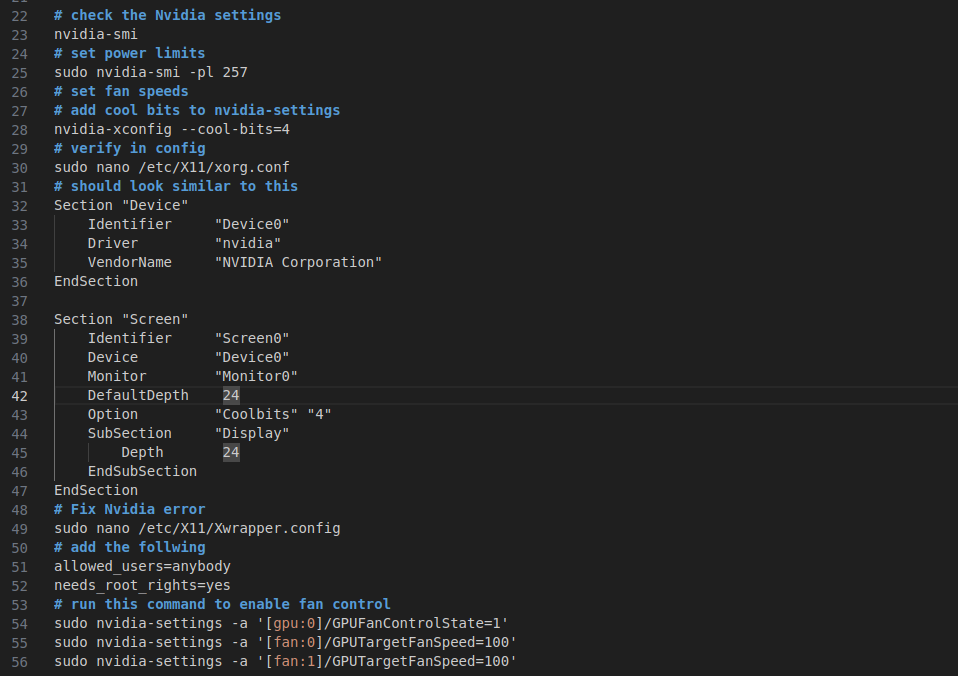
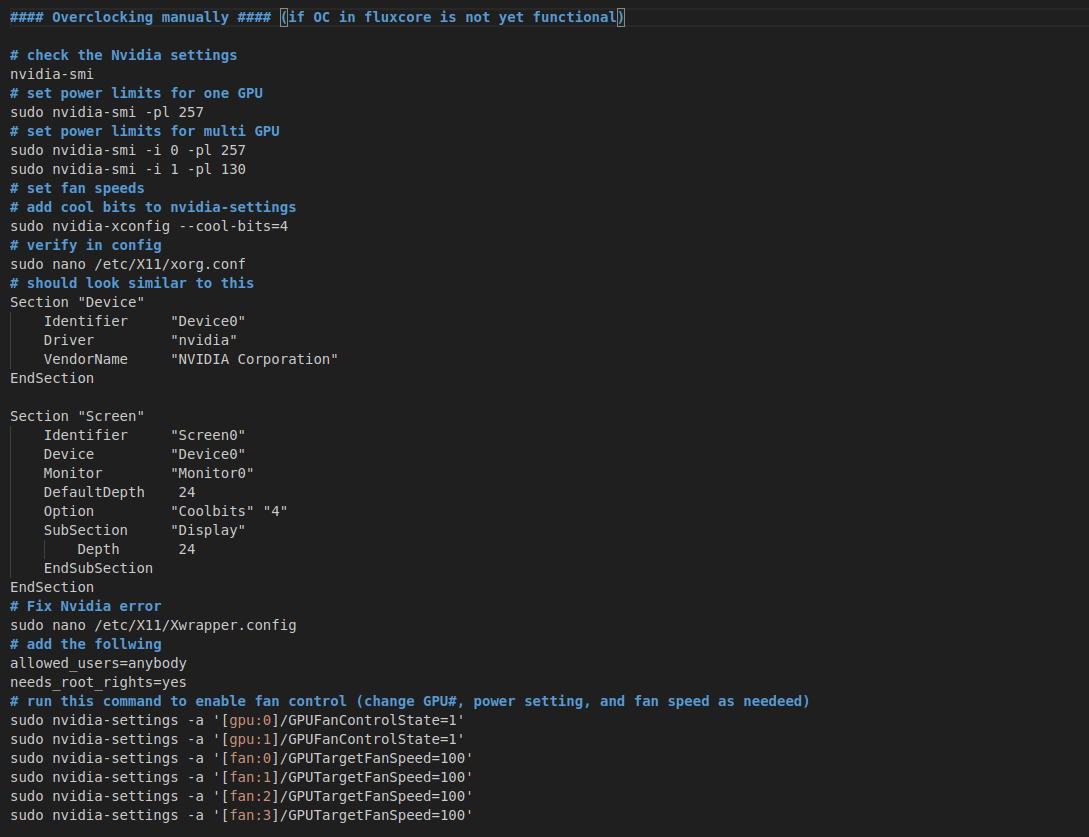
added ubuntu server OC instructions

Changed region(s): [[0.0, 0.0, 0.5752, 0.9941], [0.4541, 0.8077, 0.7265, 0.8698]]

diff --git a/fluxcore.html b/fluxcore.html
@@ -102,8 +102,7 @@
 		<h1>Welcome to Fluxcore and PoUW:</h1>
 		<p>This guide will assist you in your installation and configuration of Fluxcore!</p>
 		<H3>Notes before you start:</H3>
-		<p>We are currently unable to enable GPU fan control in Ubuntu server. You might want
-			to use Ubuntu desktop till a work around is created (for remotely controlled servers). A static IP is not 
+		<p>A static IP is not 
 			required. You can put as many servers on the same public IP as you want. Remote servers should be on the
 			same subnet as the workstation with the webserver in order to control them remotely
 		</p>
@@ -116,18 +115,19 @@
 			Fluxcore is capable of managing all of your systems from a GUI similar to the way Hive works (assuming you
 			have used Hive OS). One key difference is how you access the GUI. In Fluxcore, you first install fluxcore on
 			your workstation, and host your own private webserver page for the GUI. If you only have a single system, and
-			it will only be used for mining when you are not using it otherwise, this is all you need to do. However if
-			you have purpose built servers, you will want to install Fluxcore on your work station for the GUI, then add
-			the remote servers in the GUI as additional machines and control them remotely, after installing Fluxcore on
-			them as well</p>
-		<h3>Configuring initial system with webserver GUI as a standalone or central control for other servers</h3>
+			you will only be mining when you ar enot using it, this is all you need to do. However, if you have purpose
+			built servers, you will want to install Fluxcore on your work station for the GUI, then add/link the remote
+			servers in the GUI as additional machines. You can then install Fluxcore on the servers, and control them
+			remotely from the GUI on your work station.</p>
+		<h3>Configuring an initial system with webserver GUI as a standalone or central control for other servers</h3>
 
 		<p><span class="highlight">Step 1: </span>Configure system with Ubuntu 22.04 Desktop and Nvidia 535 driver. Ubuntu
-			will attempt to install the latest Nvidia driver (currently 545). Additionally 545 has a bug that causes the
-			package to break and often has to be manually removed before you can install 535. Ubuntu will continue to
+			will attempt to install the latest Nvidia driver (currently 545). Additionally 545 has a bug that can cause the
+			package to break and have to be manually removed before you can install 535. Ubuntu will continue to
 			attempt to upgrade to the latest driver unless you lock it to the 535 version needed for Fluxcore. Use the 
 			below commands to remove 545 and install 535. </p>
 			<p>sudo apt-get purge nvidia-*</p>
+			<p>reboot the system</p>
 			<p>sudo apt-get update</p>
 			<p>sudo apt-get install nvidia-driver-535</p>
 			<p>sudo apt-mark hold nvidia-driver-535</p>
@@ -140,27 +140,38 @@
 		<img src="assets/fluxcore001.png" alt="fluxcore001" class="fluxcore-photo">
 		<p><span class="highlight">Step 3: </span>Install the prerequisites by entering "p" and pressing "Enter"</p>
 		<img src="assets/fluxcore002.png" alt="fluxcore002" class="fluxcore-photo">
-		<p><span class="highlight">Step 4: </span>Run the bash script again and this time enter "m" and press "Enter"
-			it will prompt you for an IP to bind the webserver to. Accept the default, or use the system IP, and it will
-			automatically open in your web browser to the IP/port of the web server and allow you GUI control over FLuxcore</p>
+		<p><span class="highlight">Step 4: </span>At this point you have 2 options. You can run run the bash script again
+			and this time enter "m" and press "Enter" This will install an instance that has to be manually started and
+			stopped. The second option os to enter "d" and it will always run fluxcore in the background. (mining and PoUW
+			can still be manually started and stopped at any time). Once you make your choice, it will install, and when
+			it finishes it will prompt you for an IP to bind the webserver to. Accept the default if you dont want to be
+			able to access the webserver to remotely start and stop mining/PoUW on this system, or use the system IP if
+			you would like the option of remote control. If you chose the D option, you will have to manually start an
+			instance of Fluxcore in a terminal window with the following command. 
+			<p>./fluxcore-linux-amd64</p>
+			After this process completes (be patient) FLuxcore will automatically open in your web browser to the IP/port
+			of the web server and allow you GUI control over FLuxcore. (if you chose Daemon install you will open your
+			own browser window using the link it provides)</p>
 		<p><span class="highlight">Step 5: </span>The system will do some initial checks, and will offer you the machine
 			hash ID and the machine password. Save these values as you may need them later. Each install will have its own
-			unique machine hash and passwrod values. You will be prompted to register an account. For right now, only the
-			google log in works, but the Dev team is working hard to get the other options working as well. You will also
-			be pompted to set up Two Factor Authentication. Any of the common 2FA applications should work for this. If
-			2FA applications are new to you, hop onto youtube and watch a quick video on how to set up Authy (or similar).
-			Once you get logged in, you should now see the following screen. Go ahead and personalize the application,
-			configure your public wallet address, and install the mining module.</p>
+			unique machine hash and passwrod values. You will be prompted to register an account. At the time of writing
+			this, only the google log in works, but the Dev team is working hard to get the other options working as well.
+			You will also be pompted to set up Two Factor Authentication. Any of the common 2FA applications should work
+			for this. If 2FA applications are new to you, hop onto youtube and watch a quick video on how to set up Authy
+			(or similar). Once you get logged in, you should now see the following screen. Go ahead and personalize the
+			application, configure your public wallet address, and install the mining module.</p>
 		<img src="assets/fluxcore003.png" alt="fluxcore003" class="fluxcore-photo">
 		<p>(fluxcore will continue to run in your terminal window. Don't close it!)</p>
 		<p><span class="highlight">Step 6: </span>Set up proper "overclocks" for the GPU's before configuring fluxcore to
 			mine or running any benchmarks. While OC settings are of great debate, what is most important is limiting power,
 			and managing fan speeds so that the GPU's don't overheat. Flux core has the ability to manage these settings
-			internally, however at the time of writing this, it was not yet working correctly, so I want to share how to 
+			internally, however at the time of writing this, it was not yet functional, so I want to share how to 
 			manually change these settings in Ubuntu, as well as the config settings that need to be modified.</p>
 		<p>Before you can power limit and set fan speeds, a couple of config files need to be edited so you do not receive
 			errors when changing the default settings. Once that is complete you can use Terminal to manually set power
-			limits and fan speeds, (you can also go into the Nvidia X-server desktop application to set fan speed)</p>
+			limits and fan speeds, (you can also go into the Nvidia X-server desktop application to set fan speed). Pay
+			attention to the commands below, as they change slightly depending on the number of GPU's you have, and the
+			percent fan speed you want to apply.</p>
 		<img src="assets/fluxcore004.png" alt="fluxcore004" class="fluxcore-photo">
 		<p>You can get to the Fluxcore OC settings by going to "Account" on the left side, then choosing "OC Profiles"</p>
 		<img src="assets/fluxcore005.png" alt="fluxcore005" class="fluxcore-photo">
@@ -170,36 +181,49 @@
 			what this wallet is for in the future) lastly select the GPU's to assign to this mining profile and save the
 			config. This is the screen where you configure a mining profile.</p>
 		<img src="assets/fluxcore006.png" alt="fluxcore006" class="fluxcore-photo">
-
+		<p>At this point you have successfully installed and configured your first system on fluxcore!</p>		
 
 		<p>&nbsp;</p> <!-- Empty Paragraph for space -->
 		<h3>Add additional servers to the GUI and control remotely</h3>
-		<p><span class="highlight">Step 1: </span>Configuring dedicated remote servers for control with your workstation. 
-			Typically you would install Ubuntu server and Nvidia driver 535 for your remote server but keep in mind we do
-			not currently have a work around to control GPU fan speeds on Ubuntu server. We are working on a work around,
-			but if you want to use it right away you might consider installing Ubuntu desktop. Next run the bash script
-			for the install</p>
+		<p><span class="highlight">Step 1: </span>Configuring dedicated remote servers for control with your workstation: 
+			We recommend installing Ubuntu server and Nvidia driver 535 for your remote server but other options may also
+			work. Once you have these installed, run the bash script for the Fluxcore install!</p>
 		<p>curl -o setup.sh https://download.fluxcore.ai/setup.sh ; bash setup.sh</p>
 		<img src="assets/fluxcore001.png" alt="fluxcore001" class="fluxcore-photo">
 		<p><span class="highlight">Step 2: </span>Install the prerequisites by entering "p" and pressing "Enter"</p>
 		<img src="assets/fluxcore002.png" alt="fluxcore002" class="fluxcore-photo">
 		<p><span class="highlight">Step 3: </span>Run the bash script again and this time enter "d" and press "Enter"
-			it will prompt you for an IP to bind the webserver to. You must use the server IP to be able to see it remotely.
-			You can now paste that IP/port for the server into your workstation browser, and be able to finish configuration.
-			The system will run a few checks and will provide you machine hash and machine password. It is very important 
-			to write these down as you will need them in the next step and the machine password cannot be retrieved after
-			the fact.</p>
-		<p><span class="highlight">Step 4: </span>On your workstation you need to make a few changes before you can add the
-			server to the GUI in your workstation as a second "machine". Use the follwing command to add the system to the 
-			hosts file</p>
-			<p>sudo apt-get purge nvidia-*</p>
-			<p>Next add the server IP as machine 1, with the next one you add as machine 2, etc.</p>
+			it will prompt you for an IP to bind the webserver to. You must use the server IP to be able to see it remotely,
+			and control it from another system via the GUI. You can now paste that IP/port for the server into your
+			workstation browser, and be able to finish the configuration. The system will run a few checks and will provide
+			you machine hash and machine password. It is very important to write these down as you will need them in the
+			next step and the machine password cannot be retrieved after the fact. (without reinstallation)</p>
+		<p><span class="highlight">Step 4: </span>From your workstation you can now see the server by putting the IP of the
+			server into your browser window with :18180 on the end (example:192.168.72.162:18180) This will kick off the
+			initial test run, and return your machine hash and machine password for linking it to another GUI. However,
+			if you wouldlike to log into it to control it, or make changes to the server from your workstation you need to
+			make a few changes to this file.</p>
+		<p>sudo nano /etc/hosts</p>
+		<p>Next add the server IP as machine 1, with the next one you add as machine 2, etc. Doing this in your workstation
+			will allow you to remote into the system, log in, and actually make changes. While this is not absolutely
+			necessary, it can be helpful if you want to access it from multiple sources without adding it to another Fluxcore
+			GUI. After adding: 192.168.72.162 machine1.remote.fluxcore to  your hosts file, you can now access the remote
+			server by putting this into the browser of your work station: </p>
+			<p>http://machine1.remote.fluxcore:18180</p>
+			
+			
 		<img src="assets/fluxcore008.png" alt="fluxcore008" class="fluxcore-photo">	
-		<p><span class="highlight">Step 5: </span>On your workstation GUI you can now add the additional machine for
-			remote control and configuration. Go to the Machines option on the left side, then click "+ New Machine" on
-			the top right. Your screen should look like this. At this pint you need to enter in the machine hash and 
-			machine password you were given for the server you are attaching.</p>
+		<p><span class="highlight">Step 5: </span>On your workstation GUI you can also add many additional servers for
+			remote control and configuration from a single source. Go to the Machines option on the left side, then click
+			"+ New Machine" on the top right. Your screen should look like this. At this point you need to enter in the
+			machine hash and machine password you were given for the server you are attaching.</p>
 		<img src="assets/fluxcore009.png" alt="fluxcore009" class="fluxcore-photo">
+
+		<p><span class="highlight">Step 6: </span>Lastly, you may need a method to power limit the GPU and control the
+			fan speeds until the Fluxcore software is capable of doing it. Controlling the fans on Ubuntu server is a little
+			more involved than Ubuntu desktop because it doesnt come with the xorg package and there is no display defined.
+			Hopefully the below instructions will help you while the Fluxcore software development continues .</p>
+		<img src="assets/fluxcore010.png" alt="fluxcore010" class="fluxcore-photo">
 
 
 

diff --git a/learning_library.html b/learning_library.html
@@ -186,7 +186,7 @@
 				<p>Fluxcore is a powerful application to enable PoUW and mining!</p>
 				<p>Manage all your servers from a single interface</p>
 
-				<p><a href="fluxcore.html">Install FLuxcore!</a></p>
+				<p><a href="fluxcore.html">Install Fluxcore!</a></p>
 			</div>
 		</div>
 		
